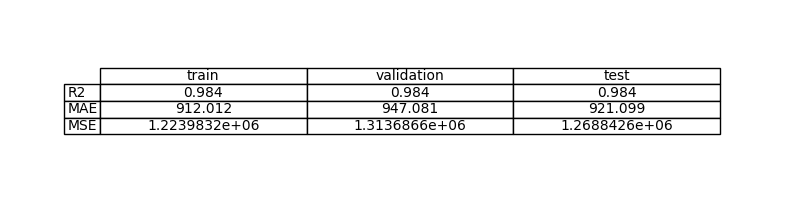
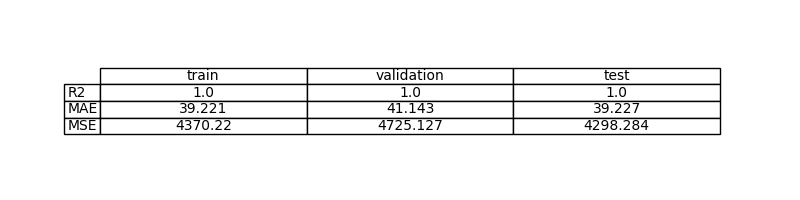
Exercise_02 con dos capas ocultas, epocas340, lr=.0003,  y las mejoras

diff --git a/src/exercise_02/train.py b/src/exercise_02/train.py
@@ -1,14 +1,15 @@
+#Script de entrenamientofrom pathlib import Path
 from pathlib import Path
-
 import matplotlib.pyplot as plt
 import torch
 import torch.nn as nn
 import torch.optim as optim
+
+
+from dataset import NoisyRegressionDataset
+from model import MultiLayerPerceptron
 from torch.utils.data import DataLoader, random_split
 from tqdm import tqdm
-
-from .dataset import NoisyRegressionDataset
-from .model import MultiLayerPerceptron
 
 
 def get_device(force: str = "auto") -> torch.device:
@@ -24,6 +25,7 @@ def get_device(force: str = "auto") -> torch.device:
     # auto
     return torch.device("cuda" if torch.cuda.is_available() else "cpu")
 
+
 def train_model(output_folder: Path, device: torch.device):
     # Create an instance of the dataset
     dataset = NoisyRegressionDataset(size=10000)
@@ -38,18 +40,20 @@ def train_model(output_folder: Path, device: torch.device):
 
     # Create DataLoaders for the datasets
     pin_memory = True if device.type == "cuda" else False
-    train_loader = DataLoader(train_dataset, batch_size=10, shuffle=True, pin_memory=pin_memory)
-    val_loader = DataLoader(val_dataset, batch_size=10, shuffle=False, pin_memory=pin_memory)
+    train_loader = DataLoader(train_dataset, batch_size=64, shuffle=True, pin_memory=pin_memory)
+    val_loader = DataLoader(val_dataset, batch_size=64, shuffle=False, pin_memory=pin_memory)
 
     # Define the model, loss function, and optimizer
     input_dim = 1
     output_dim = 1
-    model = MultiLayerPerceptron(input_dim, output_dim, num_hidden_neurons=64, apodo="exercise_02").to(device)
+    model = MultiLayerPerceptron(
+        input_dim, output_dim, num_hidden_neurons=64, apodo="exercise_02"
+    ).to(device)
     criterion = nn.MSELoss()
-    optimizer = optim.AdamW(model.parameters(), lr=0.001)
+    optimizer = optim.AdamW(model.parameters(), lr=0.0003)
 
     # Training loop with validation and saving best weights
-    num_epochs = 200 # Aumentamos de 100 a 250 porque el validation loss seguía bajando
+    num_epochs = 340  # Aumentamos de 100 a 500 porque el validation loss seguía bajando
     best_val_loss = float("inf")
     best_model_path = output_folder / "best_model.pth"
 
@@ -59,25 +63,25 @@ def train_model(output_folder: Path, device: torch.device):
     for epoch in tqdm(range(num_epochs)):
         model.train()
         train_loss = 0
-        for inputs, targets in train_loader: # input:x; target:y
+        for inputs, targets in train_loader:  # input:x; target:y
             # Forward pass
             inputs_cuda = inputs.to(device)
             targets_cuda = targets.to(device)
-            outputs = model(inputs_cuda, use_activation=False) # outputs: y' (y gorro)
+            outputs = model(inputs_cuda, use_activation=False)  # outputs: y' (y gorro)
             loss = criterion(outputs, targets_cuda)
 
             train_loss += loss.item()
 
             # Backward pass and optimization
-            optimizer.zero_grad() # Poner a cero los gradientes antes de la backward
-            loss.backward() # Calcular los gradientes
-            optimizer.step() # Actualizar los pesos
+            optimizer.zero_grad()  # Poner a cero los gradientes antes de la backward
+            loss.backward()  # Calcular los gradientes
+            optimizer.step()  # Actualizar los pesos
 
         train_loss /= len(train_loader)
         train_losses.append(train_loss)
 
         # Validation step
-        model.eval() # Poner el modelo en modo evaluación para poder desactivar dropout, batchnorm, etc.
+        model.eval()  # Poner el modelo en modo evaluación para poder desactivar dropout, batchnorm, etc.
         val_loss = 0
         with torch.no_grad():
             for inputs, targets in val_loader:
@@ -96,7 +100,7 @@ def train_model(output_folder: Path, device: torch.device):
 
         if (epoch + 1) % 10 == 0:
             print(
-                f"Epoch [{epoch+1}/{num_epochs}], Train Loss: {train_loss:.4f}, Validation Loss: {val_loss:.4f}"
+                f"Epoch [{epoch + 1}/{num_epochs}], Train Loss: {train_loss:.4f}, Validation Loss: {val_loss:.4f}"
             )
 
     print(f"Best validation loss: {best_val_loss:.4f}, Model saved to {best_model_path}")
@@ -114,12 +118,13 @@ def train_model(output_folder: Path, device: torch.device):
     plt.savefig(output_folder / "loss_plot.png")
     plt.savefig(output_folder / "loss_plot.png")
 
+
 if __name__ == "__main__":
     # Create output folder based on file folder
-    output_folder = Path(__file__).parent.parent.parent / "outs" / Path(__file__).parent.name  
+    output_folder = Path(__file__).parent.parent.parent / "outs" / Path(__file__).parent.name
     output_folder.mkdir(exist_ok=True, parents=True)
 
-    device = get_device("auto") # choices are "auto", "cpu", "cuda"
+    device = get_device("auto")  # choices are "auto", "cpu", "cuda"
     print(f"Using device: {device}")
     train_model(output_folder, device=device)
 

diff --git a/src/exercise_02/model.py b/src/exercise_02/model.py
@@ -1,9 +1,14 @@
+# Define los modelos de perceptrón simple y multicapa/multilayer perceptron
+
 import torch
 import torch.nn as nn
 
 
 # Debe tener el init y el forward
-class SimplePerceptron(nn.Module):
+class SimplePerceptron(nn.Module): # Hereda de nn.Module, es un requisito
+    """
+    Modelo de perceptrón simple: una sola capa lineal y una activación identidad
+    """
     def __init__(self, input_dim, output_dim):
         super().__init__()
         self.fc = nn.Linear(input_dim, output_dim)
@@ -17,29 +22,34 @@ class SimplePerceptron(nn.Module):
 
 
 class MultiLayerPerceptron(nn.Module):  # Hereda de nn.Module, es un requisito
+    """
+    Modelo de perceptrón multicapa: tres capas lineales y activaciones ReLU
+    """
     def __init__(
         self, input_dim, output_dim, num_hidden_neurons, apodo
     ):  # Parametros de entrada y salida
         super().__init__()  # es necesario
         self.fc1 = nn.Linear(
             input_dim, num_hidden_neurons
-        )  # Modelo lineal , añade capa lineal del perceptron, "capa oculta"
-        self.fc2 = nn.Linear(num_hidden_neurons, output_dim) # Capa de salida
-        self.activation = nn.Identity()
+        )  # Modelo lineal , añade capa lineal del perceptron, "primera capa oculta"
+        self.fc2 = nn.Linear(num_hidden_neurons, num_hidden_neurons)  # Segunda capa oculta
+        self.fc3 = nn.Linear(num_hidden_neurons, output_dim)  # Capa de salida
         self.activation = nn.ReLU()
         self.apodo = apodo
 
     def forward(self, x, use_activation=True):
-        x1 = self.fc1(x)  # Falta la activacion
+        x1 = self.fc1(x)  # Primera capa
         x1 = self.activation(x1)  # Aplicamos la activacion
-        x2 = self.fc2(x1)
+        x2 = self.fc2(x1)  # Segunda capa oculta
+        x2 = self.activation(x2)  # Aplicamos la activacion
+        x3 = self.fc3(x2)  # Capa de salida
 
         if use_activation:
-            x2 = self.activation(x2)
-        return x2
+            x3 = self.activation(x3)
+        return x3
 
 
-if __name__ == "__main__": # Para probar si el modelo funciona
+if __name__ == "__main__":  # Para probar si el modelo funciona
     model = SimplePerceptron(1, 1)
     print(model)
     x = torch.tensor([1.0])

diff --git a/src/exercise_02/dataset.py b/src/exercise_02/dataset.py
@@ -1,3 +1,4 @@
+# Define el dataset de regresión con ruido cuadrático
 from pathlib import Path
 
 import matplotlib.pyplot as plt
@@ -9,6 +10,11 @@ from torch.utils.data import Dataset
 
 
 class NoisyRegressionDataset(Dataset):
+    """
+    Genera el dataset con ruido siguiendo la ecuación:
+    y = -3*x^2 + 5*x + delta
+    donde delta es ruido gaussiano con desviación estándar `noise_std`
+    """
     def __init__(self, noise_std=20, size=100, seed=42):
         np.random.seed(seed)
         self.x = np.random.uniform(0, 100, size=(size,))
@@ -24,15 +30,19 @@ class NoisyRegressionDataset(Dataset):
         self.y = self.y.reshape((-1, 1))
 
     def plot(self, filepath):
+        # Guarda un plot del dataset
         ax = sns.scatterplot(self.df, x="x", y="y")
-        ax.set_title("Synthetic noisy data of y=5*x+2")
+        ax.set_title("Synthetic noisy data of y=-3*x^2 + 5*x + delta")
         plt.savefig(filepath)
         plt.show()
 
     def __len__(self):
+        #Para que sea compatible con Pytorch DataLoader
         return len(self.x)
 
     def __getitem__(self, idx):
+        # Para que sea compatible con PyTorch Dataset
+        # return self.x[idx], self.y[idx] # Se puede hacer así, pero es mejor usar tensores de torch
         return torch.tensor(self.x[idx], dtype=torch.float32), torch.tensor(
             self.y[idx], dtype=torch.float32
         )

diff --git a/src/exercise_02/evaluate.py b/src/exercise_02/evaluate.py
@@ -1,3 +1,5 @@
+# Script de evaluación y generación de gráficos
+
 from pathlib import Path
 
 import matplotlib.pyplot as plt
@@ -7,8 +9,8 @@ import seaborn as sns
 import torch
 from torch.utils.data import DataLoader, random_split
 
-from .dataset import NoisyRegressionDataset
-from .model import MultiLayerPerceptron
+from dataset import NoisyRegressionDataset
+from model import MultiLayerPerceptron
 
 
 def evaluate_and_plot(loader, model, dataset_name, output_folder):
@@ -19,7 +21,7 @@ def evaluate_and_plot(loader, model, dataset_name, output_folder):
 
     with torch.no_grad():  # Desactivar el cálculo de gradientes para ir más rápido
         for inputs, targets in loader:
-            outputs = model(inputs, use_activation=False)
+            outputs = model(inputs, use_activation=False) # La ultima capa no tiene activación
             all_inputs.append(inputs.numpy())
             all_outputs.append(outputs.numpy())
             all_targets.append(targets.numpy())

diff --git a/src/exercise_02/readme_exercise.md b/src/exercise_02/readme_exercise.md
@@ -107,16 +107,16 @@ No se ha realizado ninguna ampliación de datos.
 
 ## Consideraciones del modelo
 
-Para la función $y = -3x^2 + 5x$, un modelo lineal (SinglePerceptron) no es suficiente. Por ello utilizamos un perceptrón multicapa (MultilayerPerceptron) con una capa oculta (fc1) y activación ReLU, y activación identidad en la última capa (regresión sin límites). Esto permite capturar la no linealidad de la función objetivo.
+Para la función $y = -3x^2 + 5x$, un modelo lineal (SinglePerceptron) no es suficiente. Por ello utilizamos un perceptrón multicapa (MultilayerPerceptron) con **dos capas ocultas** (fc1 y fc2, ambas con 64 neuronas) y activación ReLU, y activación identidad en la última capa (fc3) para regresión sin límites. La arquitectura es: **1 → 64 (ReLU) → 64 (ReLU) → 1**. Esto permite capturar mejor la no linealidad de la función objetivo cuadrática.
 
-### Funciones de pérdida adecuadas [ESCRIBIR RESPUESTA]
+### Funciones de pérdida adecuadas 
 
 La función de pérdida utilizada depende del tipo de problema:
 
 - En regresión no lineal, se emplea el error cuadrático medio (MSE).
 - En problemas de clasificación, se utiliza la entropía cruzada.
 
-### Función de Pérdida Seleccionada [ESCRIBIR RESPUESTA]
+### Función de Pérdida Seleccionada
 
 En esta tarea se utiliza la función de pérdida MSE (Mean Squared Error), ya que el problema planteado es un problema de regresión no lineal, en el que la salida del modelo es una variable continua.
 
@@ -128,7 +128,7 @@ El objetivo del entrenamiento es ajustar los pesos sinápticos del modelo para m
 
 ### Posibles arquitecturas
 
-Se utiliza una arquitectura de perceptrón multicapa (MultilayerPerceptron) con 64 neuronas en la capa oculta. Esta arquitectura tiene múltiples parámetros (pesos y sesgos en fc1 y fc2) que se aprenden durante el entrenamiento: $W_1, b_1$ en la capa oculta y $W_2, b_2$ en la capa de salida.
+Se utiliza una arquitectura de perceptrón multicapa (MultilayerPerceptron) con **dos capas ocultas de 64 neuronas cada una**. Esta arquitectura tiene múltiples parámetros (pesos y sesgos en fc1, fc2 y fc3) que se aprenden durante el entrenamiento: $W_1, b_1$ en la primera capa oculta, $W_2, b_2$ en la segunda capa oculta, y $W_3, b_3$ en la capa de salida.
 
 ### Activación de la última capa
 
@@ -140,11 +140,14 @@ Se usa `AdamW` como optimizador por su estabilidad y capacidad de convergencia. 
 
 ## Entrenamiento
 
-El entrenamiento se ha realizado a lo largo de 200 épocas. El gráfico de la función de pérdida se muestra a continuación.
+El entrenamiento se ha realizado a lo largo de **340 épocas**. El gráfico de la función de pérdida se muestra a continuación.
 
 ### Hiperparámetros de entrenamiento
 
-La tasa de aprendizaje se establece en 0,001
+- **Learning rate**: 0.0003
+- **Batch size**: 64
+- **Optimizador**: AdamW
+- **Épocas**: 340
 
 ### Grafo de la función de pérdida
 
@@ -208,18 +211,19 @@ Para mejorar el modelo, se podría ajustar el número de neuronas o aplicar earl
 Describe el proceso que has seguido para mejorar el modelo y la evolución del rendimiento del modelo durante el proceso.
 
 Estrategia seguida:
-1. Primero aumentar el learning rate (x10) (coste computacional nulo). 
-2. Si no es suficiente, aumentar el número de épocas. (100-->200-->250)
-3. Como último recurso, aumentar el número de neuronas.
+1. Añadir una segunda capa oculta (1→64→1 a 1→64→64→1) para aumentar la capacidad del modelo.
+2. Ajustar el learning rate para estabilidad (0.001 → 0.0003) tras observar picos en validation loss.
+3. Aumentar épocas progresivamente (100→200→300→340) hasta observar convergencia.
+4. Mantener batch_size=64 (bueno para dataset de 10,000 puntos).
 
 Puedes incluir una tabla que indique los parámetros cambiados y los resultados obtenidos tras el proceso.
 
 | Cambio | Antes | Después | Impacto observado |
 |---|---|---|---|
-| Modelo | `SimplePerceptron` | `MultiLayerPerceptron` | Mejor ajuste de la curva (no linealidad) |
-| Neuronas ocultas | — | 64 | Mayor capacidad para aproximar $y = -3x^2 + 5x$ |
-| Learning rate | 0.0001 | 0.001 | Convergencia más rápida |
-| Épocas | 100 | 200 | Mejora del validation loss hasta estabilizar |
+| Modelo | `SimplePerceptron` | `MultiLayerPerceptron` (3 capas) | Mejor ajuste de la curva (no linealidad) |
+| Capas ocultas | 1 capa (64 neuronas) | 2 capas (64 + 64 neuronas) | Mayor capacidad para aproximar $y = -3x^2 + 5x$ |
+| Learning rate | 0.001 (inestable) | 0.0003 | Convergencia más estable, sin picos |
+| Épocas | 100 → 200 → 300 | 340 | Mejora del validation loss hasta estabilizar |
 
 ## Preguntas
 
